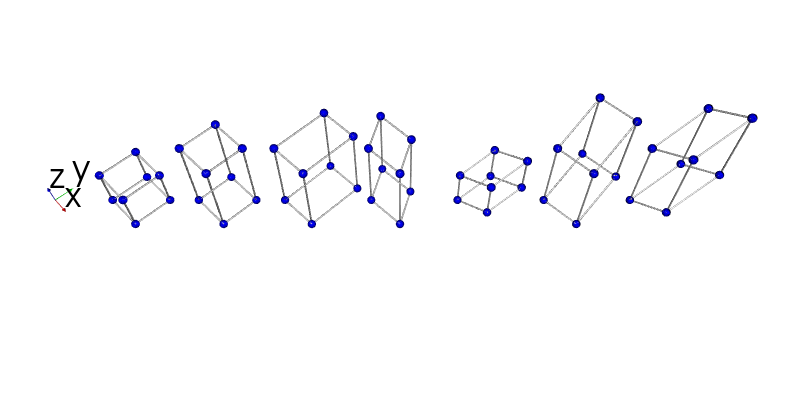
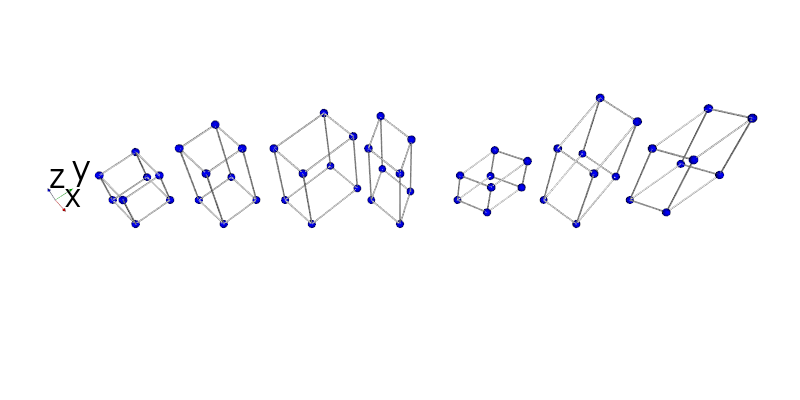
changed from white color to (1,1,1)

diff --git a/crystal/crystal_lattice_3d.py b/crystal/crystal_lattice_3d.py
@@ -86,7 +86,7 @@ if __name__ == '__main__':
   ren.AddViewProp(axes)
 
   # Set the background color.
-  ren.SetBackground(white)
+  ren.SetBackground(1.0, 1.0, 1.0)
   # set up camera
   cam = vtk.vtkCamera()
   cam.SetViewUp(0, 0, 1)
